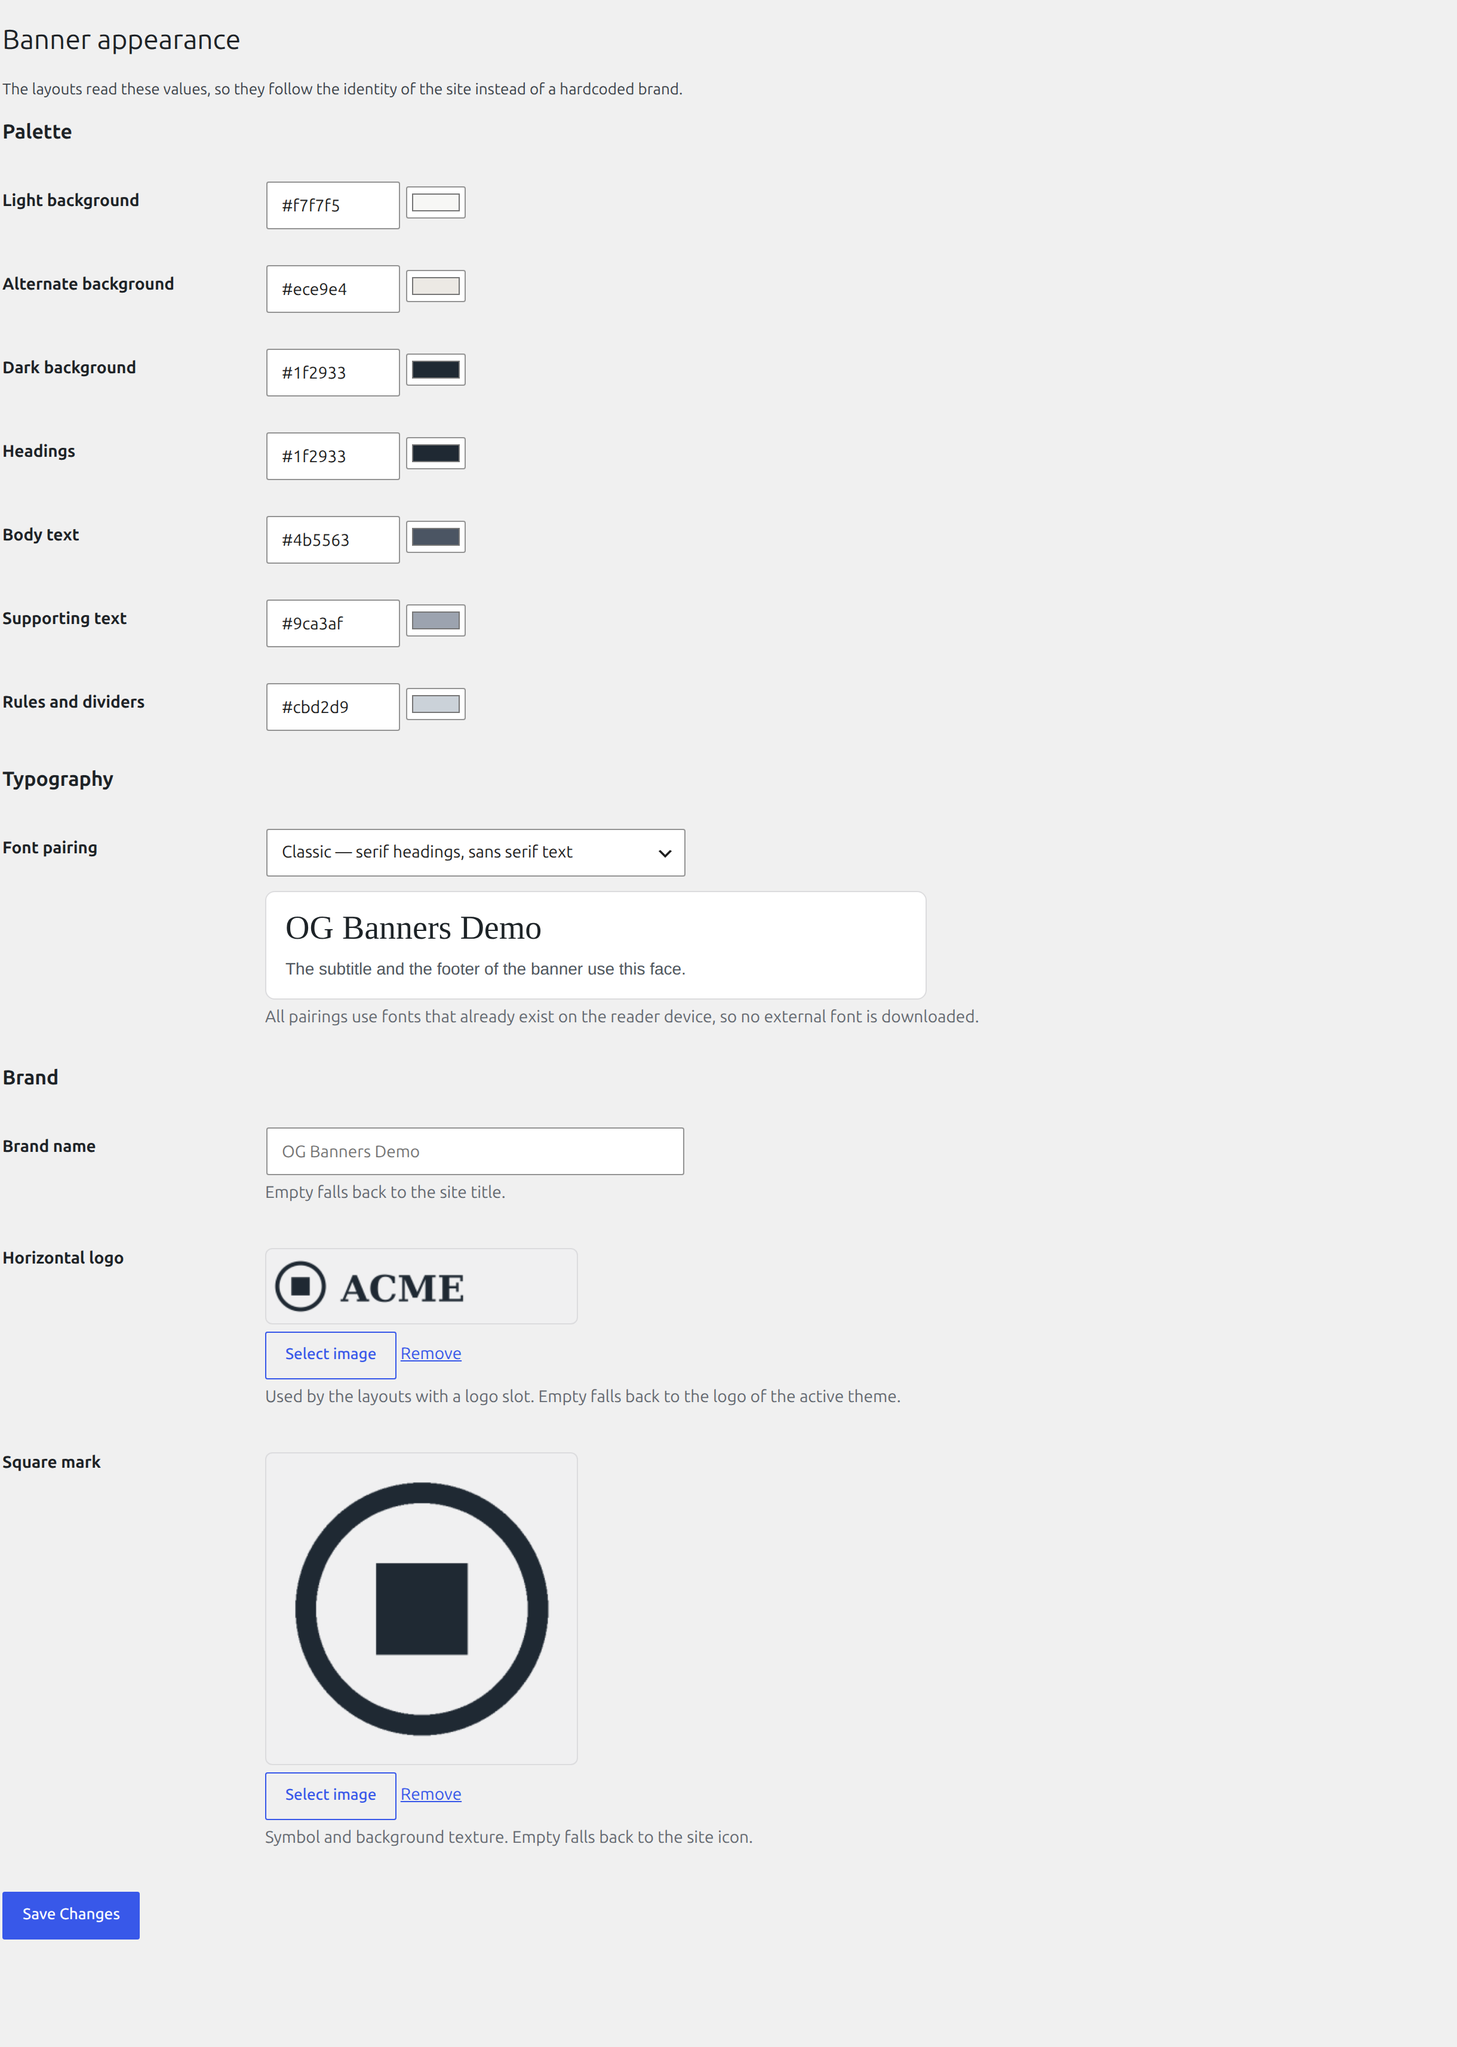
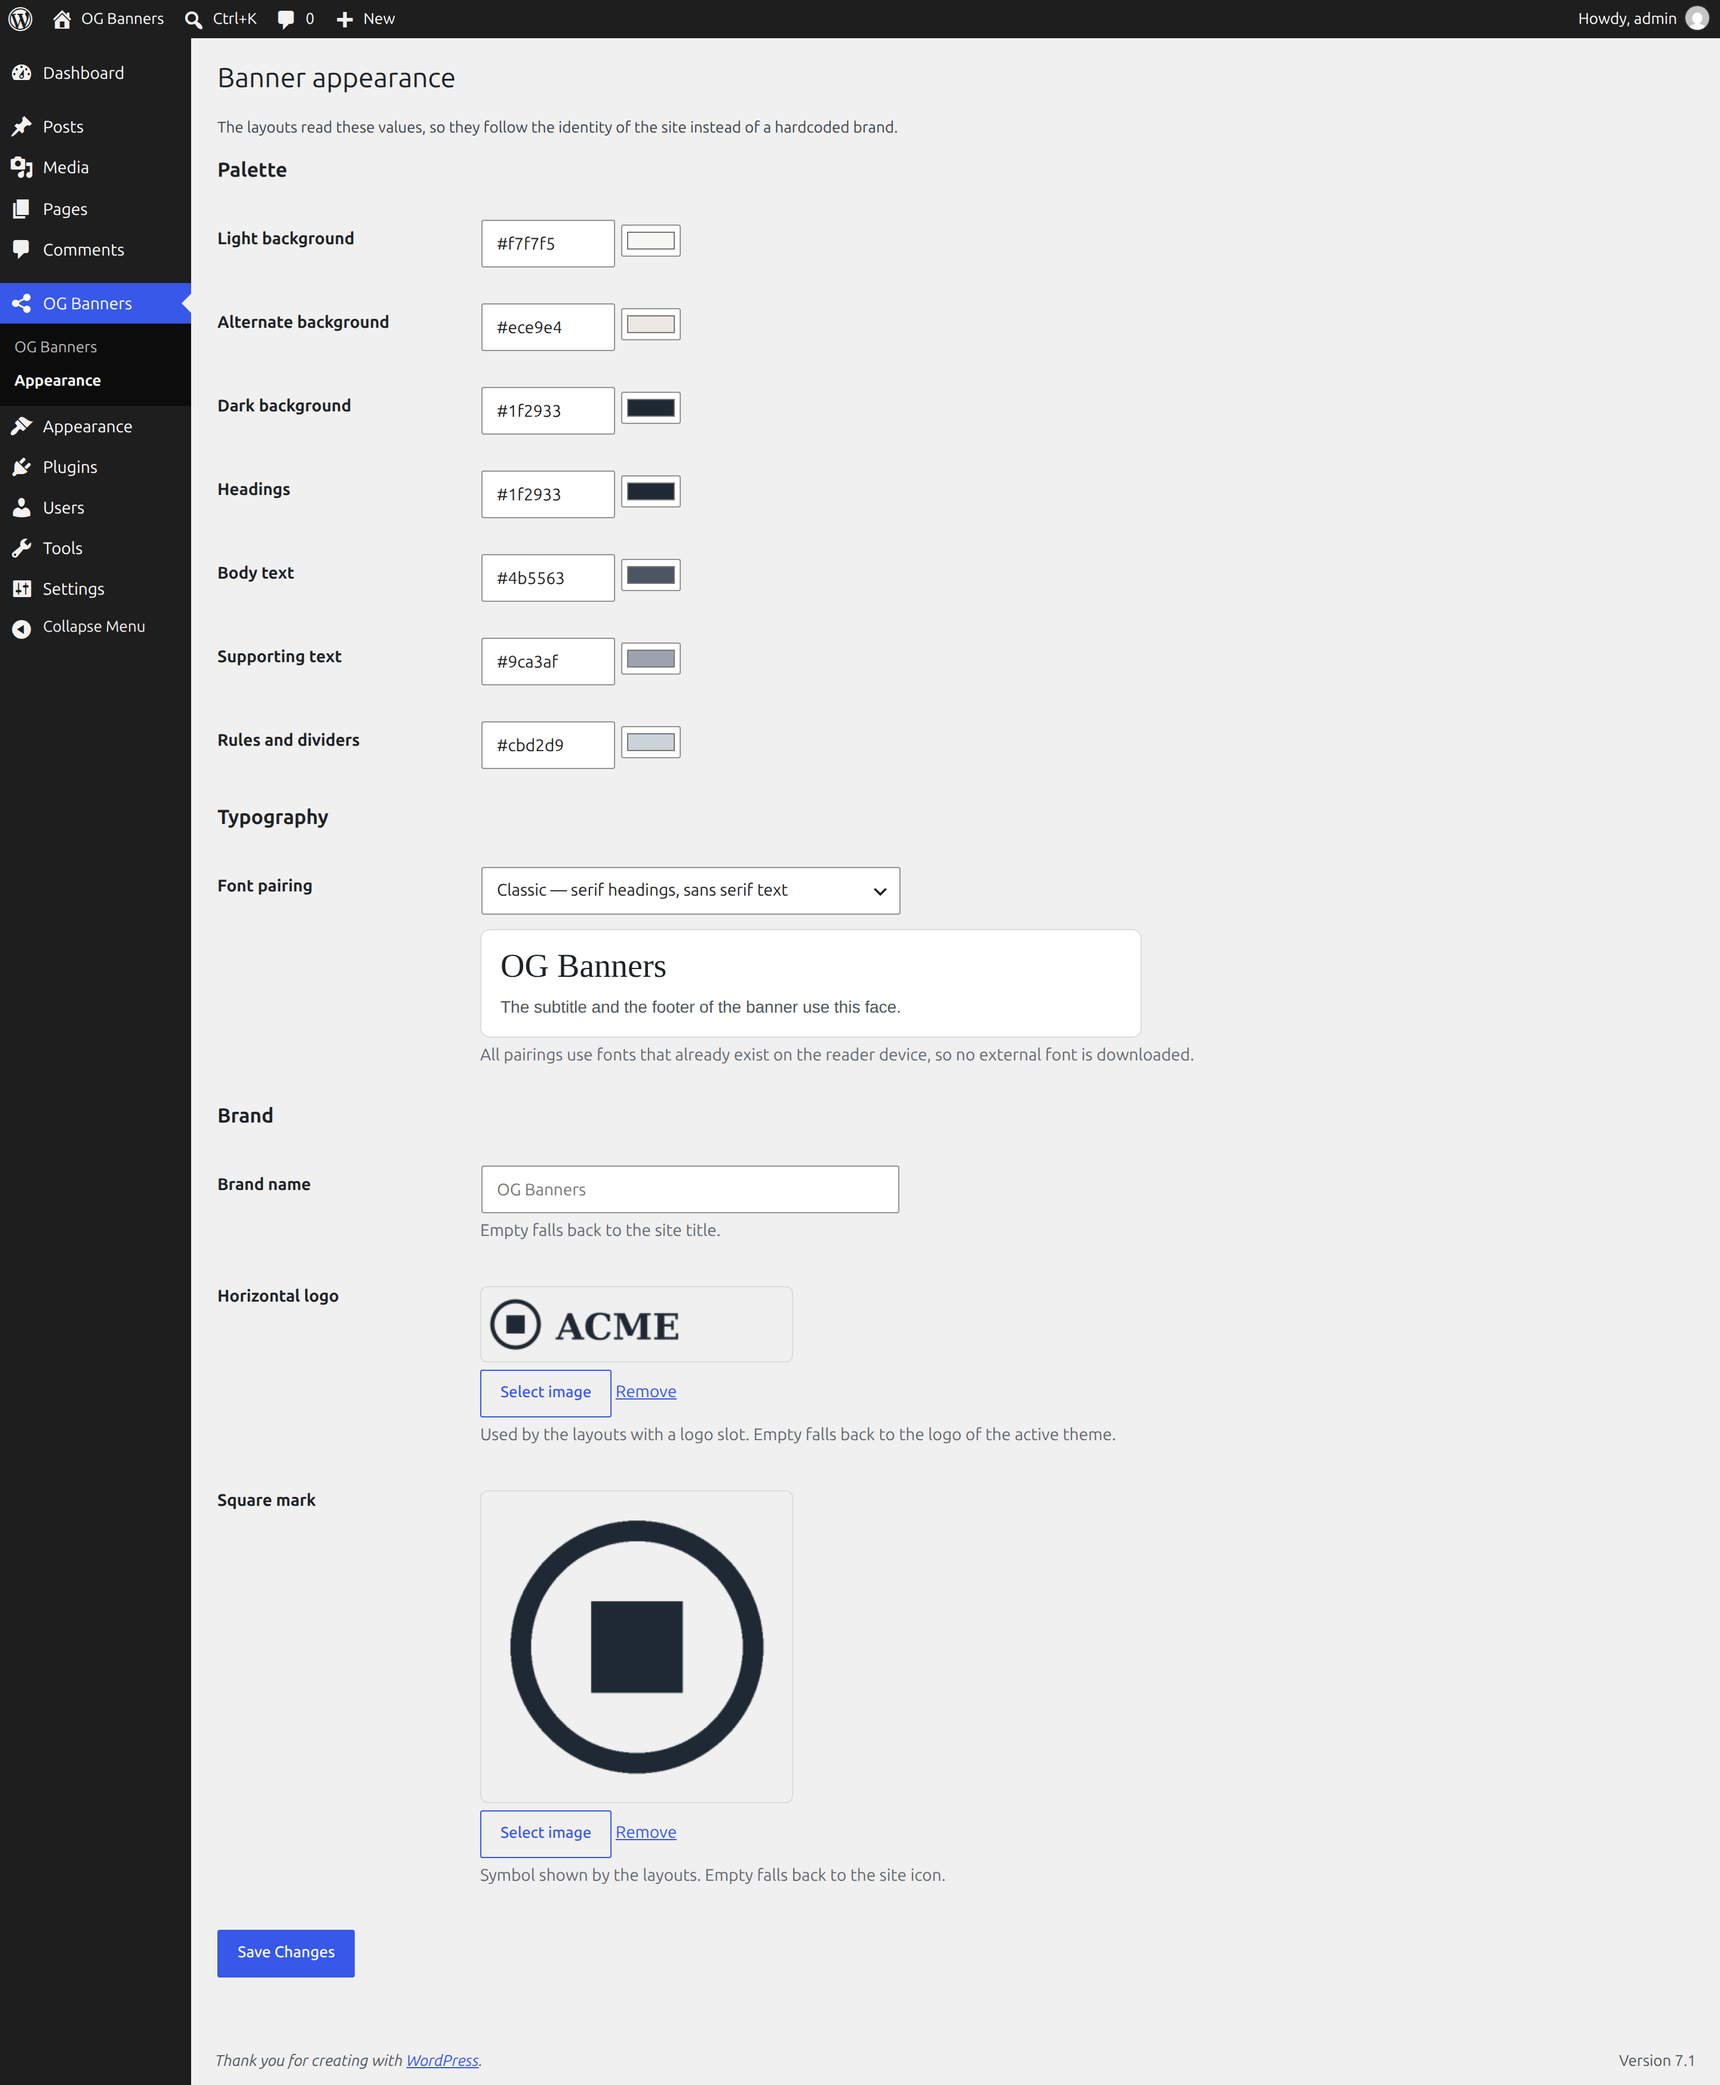
docs: capture the screenshots with the whole admin
Sizing the viewport to the document height and capturing the viewport, instead
of using fullPage: the admin menu is position:fixed, so a fullPage capture
painted it once at the viewport offset and left it floating mid-image. The
screenshots now show the sidebar, the admin bar and the footer.

Also stacks them full width in the README, one caption each, and refreshes the
sample banner.

diff --git a/README.md b/README.md
@@ -16,18 +16,17 @@ O plugin não tem marca embutida: paleta, tipografia, logo e símbolo vêm das
 configurações; layouts, campos e textos padrão são filtráveis; e um layout novo
 pode ser registrado de fora, sem tocar no plugin.
 
+**OG Banners** — um card por layout, com preview ao vivo e o arquivo em uso:
+
 ![Tela OG Banners com os quatro layouts](.github/screenshots/banners.png)
 
-<table>
-<tr>
-<td width="50%"><img src=".github/screenshots/appearance.png" alt="Tela de aparência: paleta, tipografia e marca"></td>
-<td width="50%"><img src=".github/screenshots/metabox.png" alt="Metabox de banner no editor de post"></td>
-</tr>
-<tr>
-<td>Aparência: paleta, par tipográfico e imagens da marca.</td>
-<td>Metabox: banner próprio por conteúdo, gerado ao salvar.</td>
-</tr>
-</table>
+**Aparência** — paleta, par tipográfico e imagens da marca:
+
+![Tela de aparência: paleta, par tipográfico e imagens da marca](.github/screenshots/appearance.png)
+
+**Metabox** — cada post ganha o próprio banner, gerado ao salvar:
+
+![Metabox de banner no editor de post](.github/screenshots/metabox.png)
 
 ---
 
@@ -117,6 +116,8 @@ SEOPress. Para forçar o comportamento, use o filtro `banners_og_output_tags`.
 | `feature` | Fundo escuro, conteúdo à esquerda, símbolo em marca d'água. |
 | `article` | Painel escuro à esquerda com símbolo e marca, conteúdo à direita. |
 | `profile` | Centralizado em fundo alternativo, com logo horizontal. |
+
+Exemplo do arquivo final, no layout `cover`:
 
 ![Banner Cover gerado, 1200 × 630](.github/screenshots/banner-cover.jpg)
 
